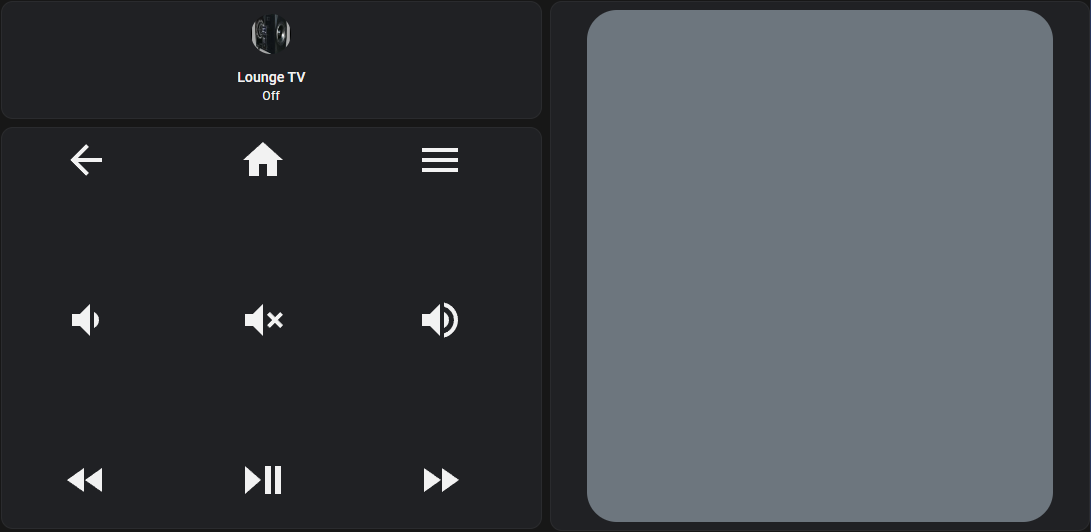
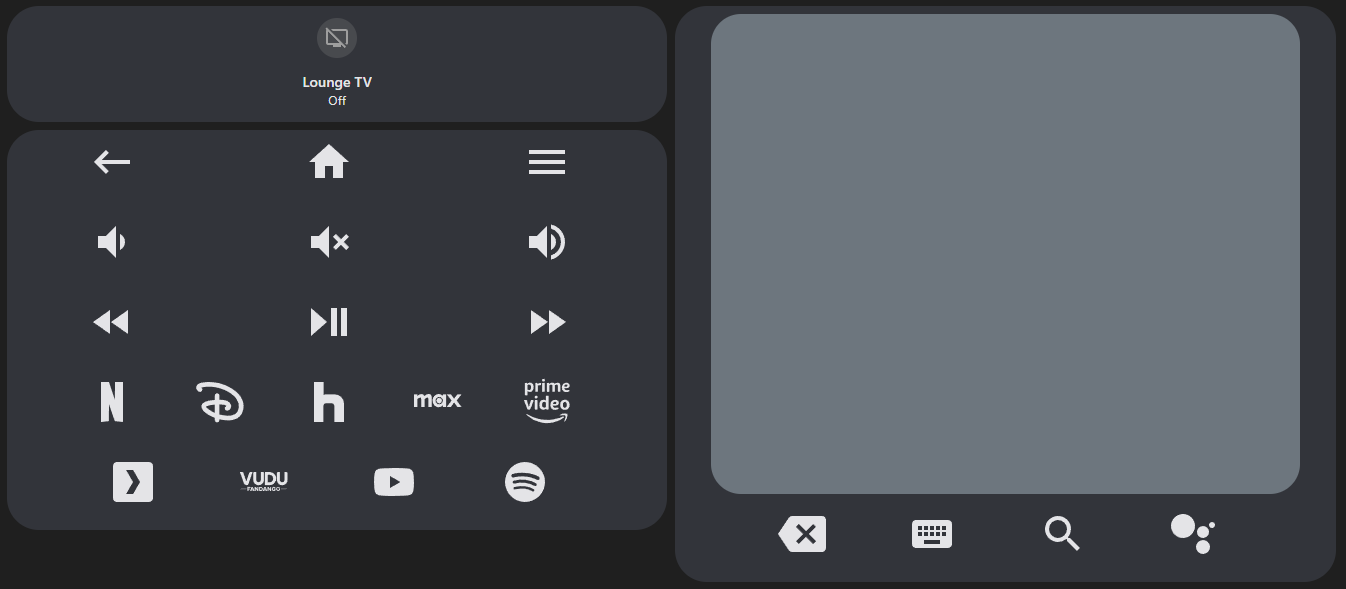
docs: update tablet example

diff --git a/README.md b/README.md
@@ -382,10 +382,9 @@ cards:
     cards:
       - type: tile
         entity: media_player.google_chromecast
-        show_entity_picture: true
-        vertical: true
         icon_tap_action:
           action: toggle
+        vertical: true
       - type: custom:android-tv-card
         remote_id: remote.google_chromecast
         media_player_id: media_player.google_chromecast
@@ -395,22 +394,29 @@ cards:
           - home
           - null
           - menu
-        spacer_row_1:
-          - null
         _row_2:
           - volume_down
           - null
           - volume_mute
           - null
           - volume_up
-        spacer_row_2:
-          - null
         _row_3:
           - rewind
           - null
           - play_pause
           - null
           - fast_forward
+        sources_row_1:
+          - netflix
+          - disney
+          - hulu
+          - max
+          - primevideo
+        sources_row_2:
+          - plex
+          - vudu
+          - youtube
+          - spotify
         custom_keys:
           volume_down:
             icon: mdi:volume-medium
@@ -421,11 +427,19 @@ cards:
           volume_up:
             icon: mdi:volume-high
             service: script.amplifier_volume_up
-  - type: custom:android-tv-card
-    remote_id: remote.google_chromecast
-    media_player_id: media_player.google_chromecast
-    navigation_row: touchpad
-    touchpad_height: 512px
+  - type: vertical-stack
+    cards:
+      - type: custom:android-tv-card
+        remote_id: remote.google_chromecast
+        adb_id: media_player.google_chromecast_adb
+        navigation_row: touchpad
+        touchpad_height: 480px
+        _row_1:
+          - delete
+          - keyboard
+          - enter
+          - search
+
 ```
 
 Result:
